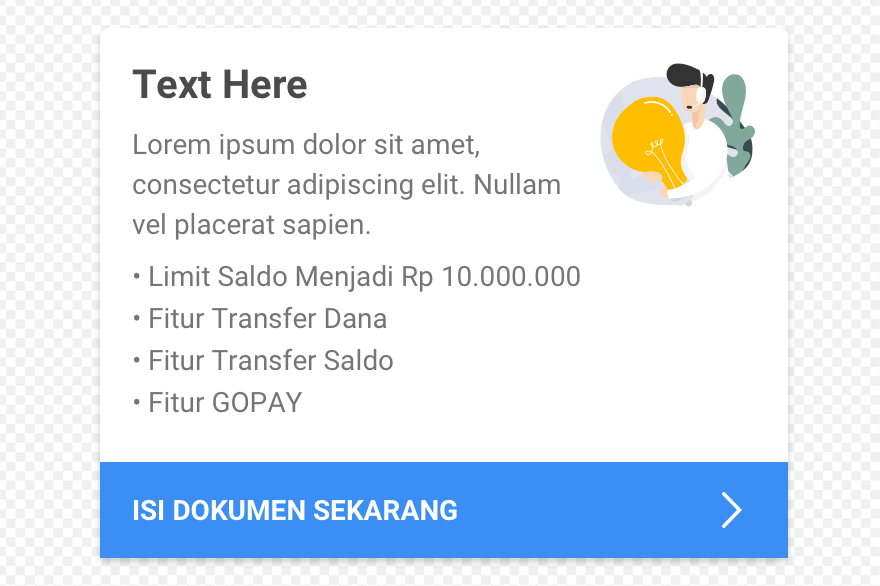
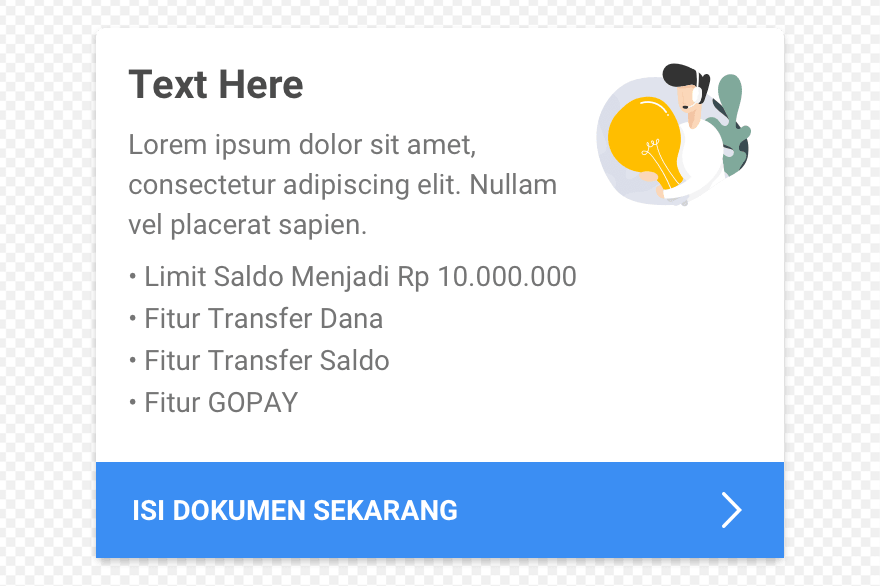
fixing after meeting

diff --git a/pages/atom/button/style.js b/pages/atom/button/style.js
@@ -124,34 +124,34 @@ class Style extends Component {
           <p>
             Above is an example of how the button is combined with content
           </p>
-          <div className="anatomy-section">
+          <div className="anatomy-section anatomy-section--wide">
             <img src="/static/images/button/style/panel-composite-white-panel-content@2x.png" className="article__img" />
             <img src="/static/images/button/style/arrow-composite-white-panel-content@2x.png" className="article__img-arrow button__img-arrow--13" />
           </div>
           <h3 className="fw-500 atom-sub-title">Filled Button White Panel + Text Button</h3>
-          <div className="anatomy-section">
+          <div className="anatomy-section anatomy-section--wide">
             <img src="/static/images/button/style/panel-composite-fill-button-wt-panel-text-button@2x.png" className="article__img" />
             <img src="/static/images/button/style/arrow-composite-fill-button-wt-panel-text-button@2x.png" className="article__img-arrow button__img-arrow--14" />
           </div>
           <h3 className="fw-500 atom-sub-title">Filled Button White Panel + 2 Text Button</h3>
-          <div className="anatomy-section">
+          <div className="anatomy-section anatomy-section--wide">
             <img src="/static/images/button/style/panel-composite-fill-button-wt-panel-2-text-button@2x.png" className="article__img" />
             <img src="/static/images/button/style/arrow-composite-fill-button-wt-panel-2-text-button@2x.png" className="article__img-arrow button__img-arrow--14" />
           </div>
           <h3 className="fw-500 atom-sub-title">Content + Custom Fill Button</h3>
-          <div className="anatomy-section">
+          <div className="anatomy-section anatomy-section--wide">
             <img src="/static/images/button/style/panel-composite-content-custom-fill-button@2x.png" className="article__img" />
             <img src="/static/images/button/style/arrow-composite-content-custom-fill-button@2x.png" className="article__img-arrow button__img-arrow--15" />
           </div>
           <h3 className="fw-500 atom-sub-title">Line Button + Custom Fill Button</h3>
-          <div className="anatomy-section">
+          <div className="anatomy-section anatomy-section--wide">
             <img src="/static/images/button/style/panel-composite-line-button-custom-fill-button@2x.png" className="article__img" />
             <img src="/static/images/button/style/arrow-composite-line-button-custom-fill-button@2x.png" className="article__img-arrow button__img-arrow--16" />
           </div>
           {/* <h3 className="fw-500 atom-sub-title">Line Button + Line Button (can use an icon)</h3>
           <img src="/static/images/button/style/composite-2-line-button@2x.png" className="article__img--wide" /> */}
           <h3 className="fw-500 atom-sub-title">Text Button + Custom Fill Button</h3>
-          <div className="anatomy-section">
+          <div className="anatomy-section anatomy-section--wide">
             <img src="/static/images/button/style/panel-composite-text-button-custom-fill-button@2x.png" className="article__img" />
             <img src="/static/images/button/style/arrow-composite-text-button-custom-fill-button@2x.png" className="article__img-arrow button__img-arrow--17" />
           </div>

diff --git a/static/css/style.css b/static/css/style.css
@@ -943,6 +943,9 @@ hr {
   margin-top: -20px;
   max-width: 375px;
 }
+.anatomy-section--wide {
+  max-width: 750px;
+}
 .indent-20 { margin-left: 20px; }
 .indent-40 { margin-left: 40px; }
 .indent-60 { margin-left: 60px; }
@@ -997,14 +1000,14 @@ hr {
   width: 70%;
 }
 .button__img-arrow--9 {
-  top: 33.1%;
-  left: 2.7%;
-  width: 132%;
+  top: 33%;
+  left: 13.6%;
+  width: 121%;
 }
 .button__img-arrow--10 {
-  top: 32%;
-  left: 6.3%;
-  width: 85%;
+  top: 31.2%;
+  left: 13.5%;
+  width: 78%;
 }
 .button__img-arrow--11 {
   top: 47%;
@@ -1017,28 +1020,28 @@ hr {
   width: 100%;
 }
 .button__img-arrow--13 {
-  top: 25%;
-  left: 57.7%;
+  top: 21%;
+  left: 57.6%;
   width: 40%;
 }
 .button__img-arrow--14 {
-  top: 25%;
+  top: 21.5%;
   left: 54.5%;
   width: 43%;
 }
 .button__img-arrow--15 {
-  top: 30.5%;
+  top: 27.3%;
   left: 57.8%;
   width: 39%;
 }
 .button__img-arrow--16 {
-  top: 32.5%;
-  left: 59.8%;
+  top: 30.5%;
+  left: 59.7%;
   width: 38%;
 }
 .button__img-arrow--17 {
-  top: 40%;
-  left: 53.8%;
+  top: 38%;
+  left: 53.6%;
   width: 44%;
 }
 
@@ -1105,14 +1108,13 @@ hr {
     width: 54%;
   }
   .button__img-arrow--9 {
-    top: 34.8%;
-    left: 3.5%;
-    width: 97%;
+    top: 34.5%;
+    left: 10%;
+    width: 91%;
   }
   .button__img-arrow--10 {
-    top: 33%;
-    left: 7%;
-    width: 84%;
+    top: 31.8%;
+    width: 77.8%;
   }
   .button__img-arrow--11 {
     left: 33.5%;
@@ -1147,9 +1149,10 @@ hr {
   .button__img-arrow--7 { top: 18%; }
   .button__img-arrow--8 { top: 25%; }
   .button__img-arrow--9 { top: 35.5%; }
-  .button__img-arrow--10, .button__img-arrow--16 { top: 34%; }
+  .button__img-arrow--10 { top: 33.2%; }
   .button__img-arrow--12, .button__img-arrow--15 { top: 33%; }
   .button__img-arrow--13, .button__img-arrow--14 { top: 28%; }
+  .button__img-arrow--16 { top: 34%; }
   .button__img-arrow--17 { top: 41%; }
 }
 
@@ -1160,8 +1163,8 @@ hr {
   .button__img-arrow--5 { top: 35%; }
   .button__img-arrow--6 { top: 29%; }
   .button__img-arrow--7 { top: 21%; }
-  .button__img-arrow--9 { top: 37%; }
-  .button__img-arrow--10 { top: 34.8%; }
+  .button__img-arrow--9 { top: 36.3%; }
+  .button__img-arrow--10 { top: 34%; }
   .button__img-arrow--12, .button__img-arrow--15 { top: 33.5%; }
   .button__img-arrow--13, .button__img-arrow--14 { top: 30.5%; }
   .button__img-arrow--16 { top: 36%; }
